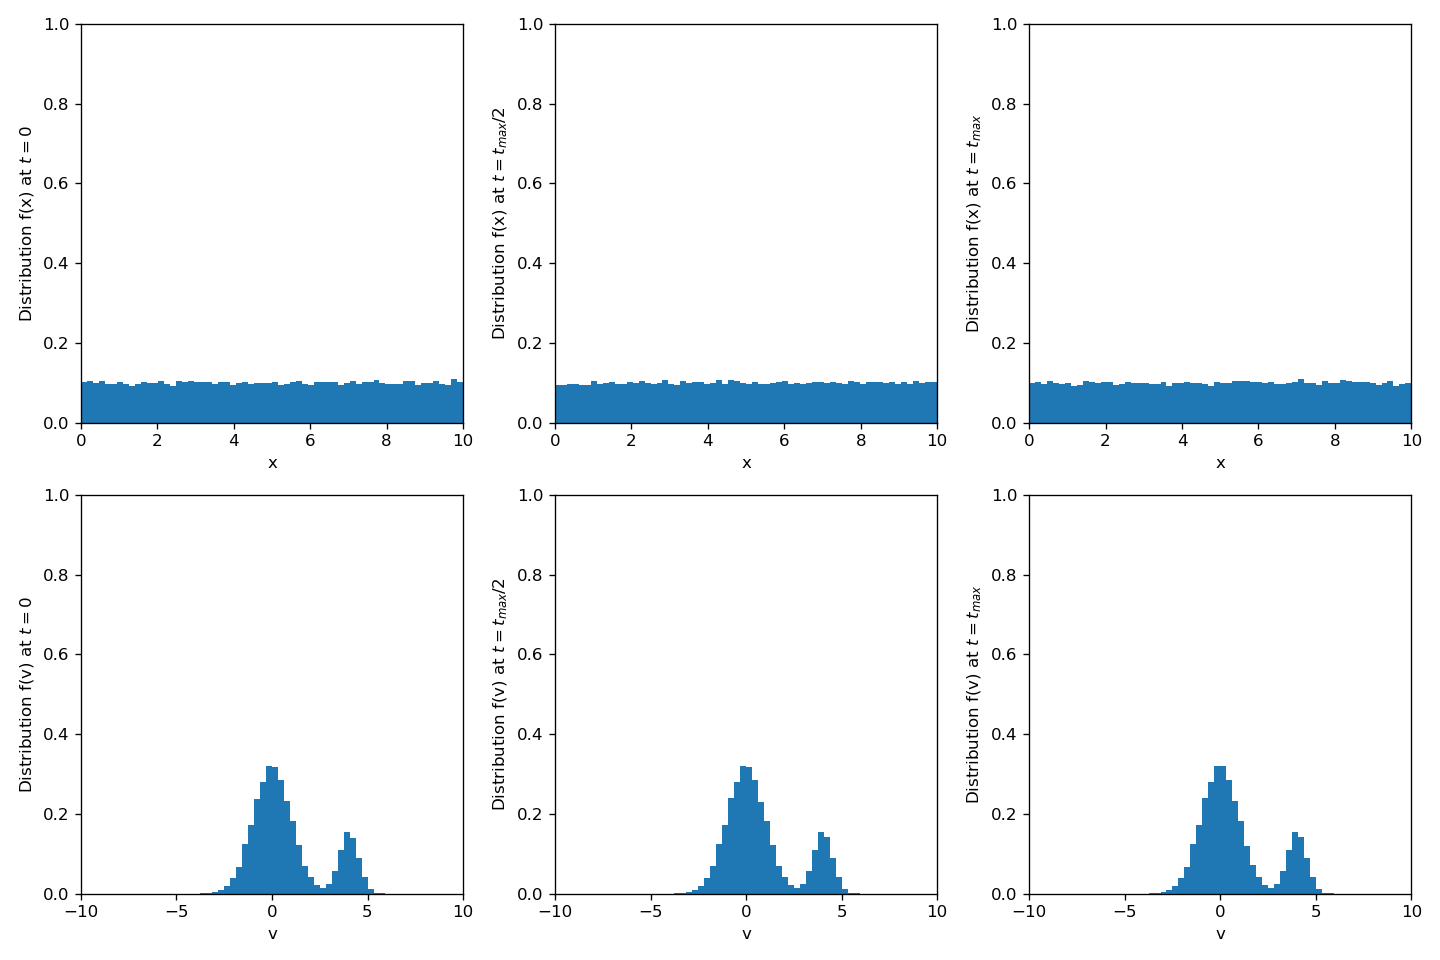
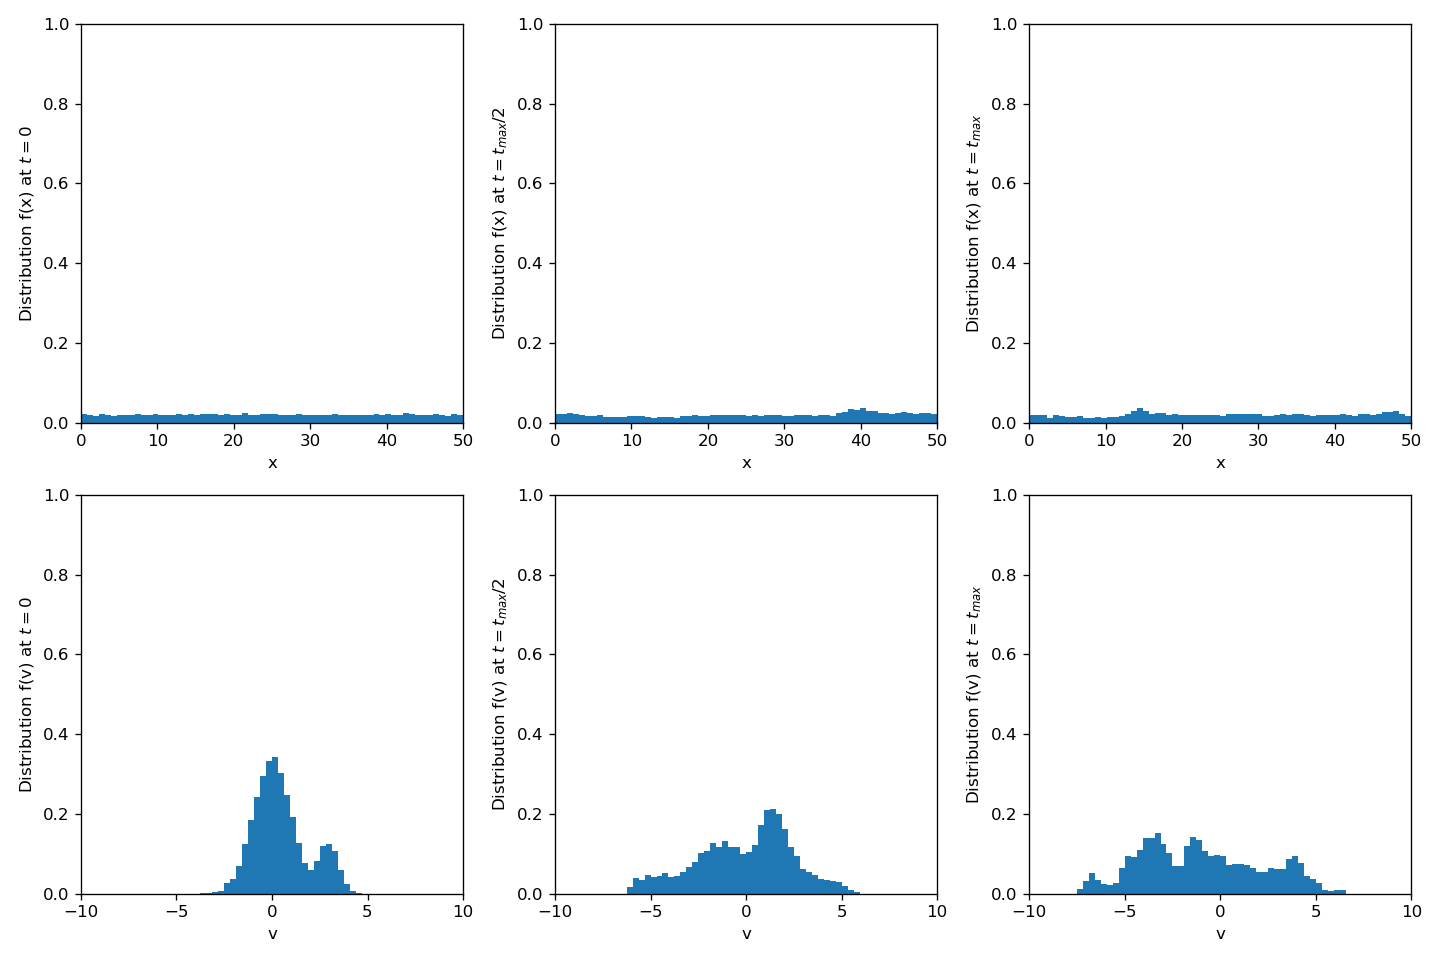
update bump-on-tail:initial distribution w.r.t x

diff --git a/pic_1d_bump_on_tail.py b/pic_1d_bump_on_tail.py
@@ -13,16 +13,16 @@ def parsing():
     parser.add_argument("--t_min", type = float, default = 0)
     parser.add_argument("--t_max", type = float, default = 50.0)
     parser.add_argument("--dt", type = float, default = 0.05)
-    parser.add_argument("--L", type = float, default = 10)
+    parser.add_argument("--L", type = float, default = 50)
     parser.add_argument("--n0", type = float, default = 1.0)
     parser.add_argument("--gamma", type = float, default = 1.0)
-    parser.add_argument("--A", type=float, default=0.5)
+    parser.add_argument("--A", type=float, default=0.02)
     parser.add_argument("--eta", type=float, default=10.0)
-    parser.add_argument("--a", type=float, default=0.25)
+    parser.add_argument("--a", type=float, default=0.2)
     parser.add_argument("--v0", type=float, default=3.0)
     parser.add_argument("--sigma", type=float, default=0.5)
     parser.add_argument("--use_animation", type = bool, default = True)
-    parser.add_argument("--plot_freq", type = int, default = 50)
+    parser.add_argument("--plot_freq", type = int, default = 25)
     parser.add_argument("--save_dir", type = str, default = "./result/")
     parser.add_argument("--simcase", type=str, default="bump-on-tail", choices = ["two-stream", "bump-on-tail"])
     args = vars(parser.parse_args())
@@ -64,4 +64,4 @@ if __name__ == "__main__":
     generate_distribution_figure(snapshot, args["save_dir"],"{}_evolution_dist_{}_{}.png".format(args['simcase'], args['interpol'], args['method']), xmin = 0, xmax = args['L'], vmin = -10.0, vmax = 10.0)
 
     if args['use_animation']:
-        generate_bump_on_tail_gif(snapshot, args['save_dir'], "{}_simulation_{}_{}.png".format(args['simcase'], args['interpol'], args['method']), 0, args['L'], -10.0, 10.0, args['plot_freq'], h_idx)
+        generate_bump_on_tail_gif(snapshot, args['save_dir'], "{}_simulation_{}_{}.gif".format(args['simcase'], args['interpol'], args['method']), 0, args['L'], -10.0, 10.0, args['plot_freq'], h_idx)

diff --git a/src/dist.py b/src/dist.py
@@ -67,11 +67,11 @@ class BumpOnTail1D(BasicDistribution):
             + self.a / (1 + self.a) * 1 / np.sqrt(2 * np.pi) / self.sigma * np.exp(-0.5 * (v-self.v0)**2 / self.sigma ** 2)
         )
         '''
-
+        
         prob = (
             1 / (1 + self.a) * 1 / np.sqrt(2 * np.pi) * np.exp(-0.5 * v**2)
             + self.a / (1 + self.a) * 1 / np.sqrt(2 * np.pi) / self.sigma * np.exp(-0.5 * (v-self.v0)**2 / self.sigma ** 2)
-        )
+        ) 
 
         return prob
 
@@ -98,5 +98,5 @@ class BumpOnTail1D(BasicDistribution):
         return samples
     
     def inject_high_electron_indice(self, v:np.ndarray):
-        indice = np.where(v > self.v0 - 1.5 * self.sigma)[0]
+        indice = np.where(v > self.v0 - 2.5 * self.sigma)[0]
         return indice

diff --git a/src/PIC.py b/src/PIC.py
@@ -100,7 +100,8 @@ class PIC:
             self.v = v.reshape(-1, 1)
 
             # Initial condition
-            # self.v *= 1 + self.A * np.sin(2 * np.pi * self.x / self.L)  # add perturbation
+            n = 5
+            self.v *= (1 + self.A * np.sin(2 * np.pi * n * self.x / self.L))  # add perturbation
 
     def generate_grad(self):
         dx = self.L / self.N_mesh

diff --git a/README.md b/README.md
@@ -30,6 +30,7 @@
 ```
 
 ## Simulation
+### Two-stream instability
 <p>
     We developed two-stream instability simulation for 1D case using PIC method. The below shows the result of 1D case with leapfrog method (left) and implicit midpoint method (right).
 </p>
@@ -60,19 +61,25 @@
     </p>
 </div>
 
+### Bump-on-tail instability
 <p> 
-    The hamiltonian computed for each step shows that implicit midpoint method has better performance in terms of energy conservation compared with explicit method. 
+    This code also simulates any initial condition which is given by any probability distribution. Rejection sampling is used to select random particles following the distribution, while the SOR algorithm is applied for stable computation during the simulation. The initial distribution is given as bump-on-tail distribution for example, which can be executed via pic_1d_bump_on_tail.py. It is available to simulate other initial distribution function by modifying dist.py. 
 </p>
-
 <div>
     <p float = 'left'>
-        <img src="/result/hamiltonian_comparsion.png"  width="50%">
+        <img src="/result/bump-on-tail_simulation_CIC_leapfrog.gif"  width="100%">
     </p>
 </div>
 
 <p> 
-    This code also simulates any initial condition which is given by any probability distribution. Rejection sampling is used to select random particles following the distribution, while the SOR algorithm is applied for stable computation during the simulation. The initial distribution is given as bump-on-tail distribution for example, which can be executed via pic_1d_bump_on_tail.py. It is available to simulate other initial distribution function by modifying dist.py. 
+    The distribution of the particles along the time in this case shows that the Landau damping process, which indicates the quasi-linear diffusion of the velocity distribution due to wave-particle interaction. 
 </p>
+
+<div>
+    <p float = 'left'>
+        <img src="/result/bump-on-tail_evolution_dist_CIC_leapfrog.png"  width="100%">
+    </p>
+</div>
 
 ## Reference
 - <a href = "https://medium.com/swlh/create-your-own-plasma-pic-simulation-with-python-39145c66578b">Create Your Own Plasma PIC Simulation, Philip Mocz</a>
